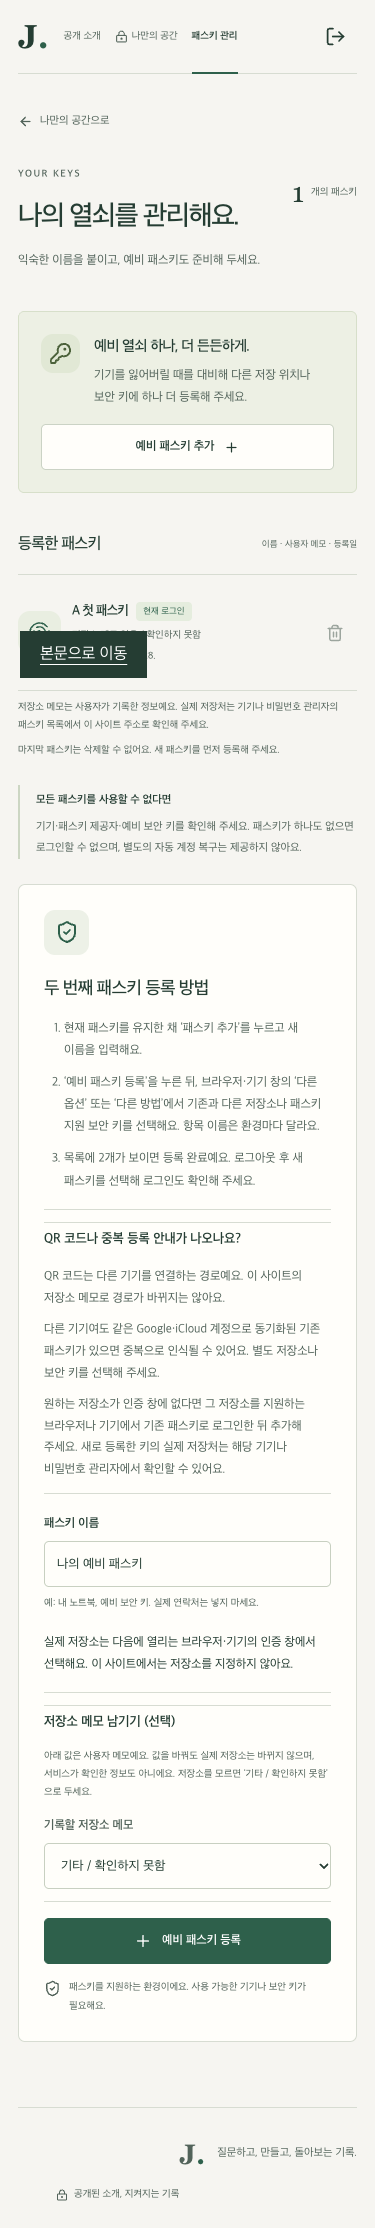
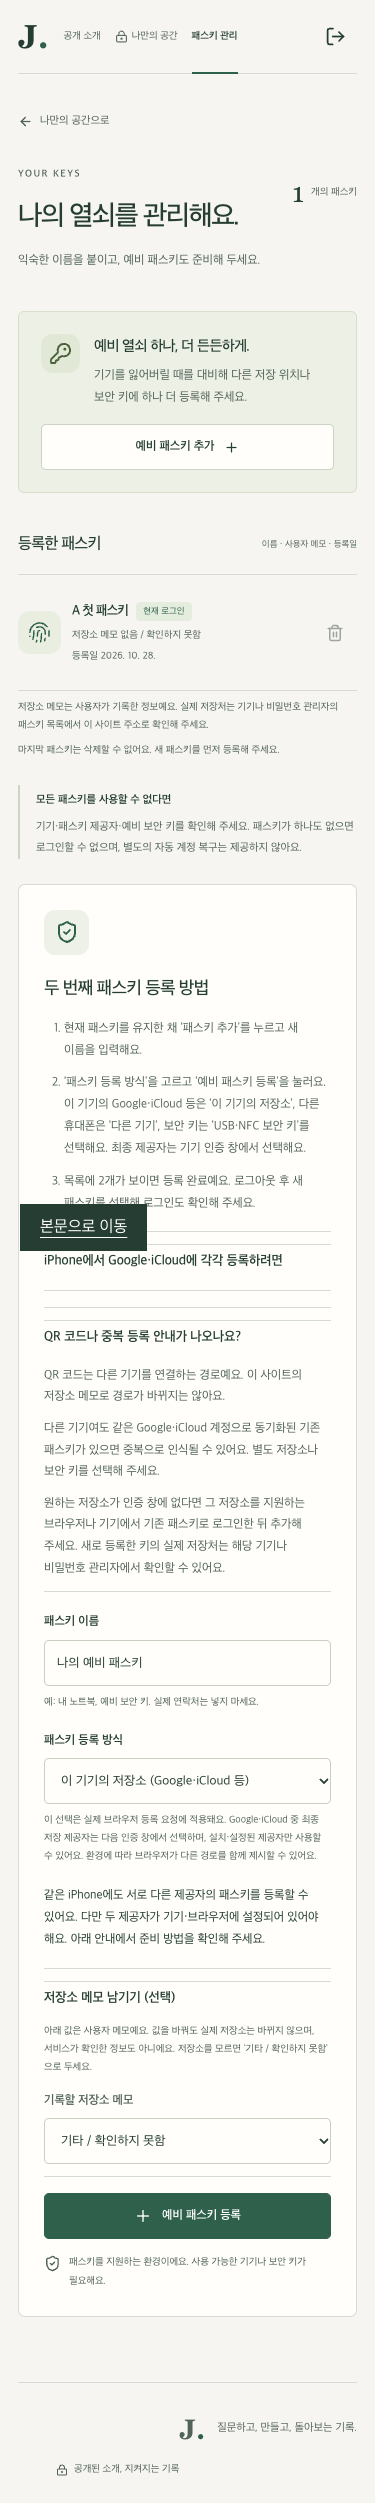
Add real WebAuthn registration routes and iPhone provider setup guidance

diff --git a/scripts/verify-deployment.ts b/scripts/verify-deployment.ts
@@ -22,6 +22,7 @@ let cleaned = true;
 let credentialProof: unknown;
 let counts: unknown;
 let storageMemoProof: unknown;
+let registrationMethodProof: unknown;
 const browser = await chromium.launch({ channel: process.env.PLAYWRIGHT_CHANNEL ?? 'chromium' });
 const contexts: BrowserContext[] = [];
 const sourceCommit = process.env.DEPLOYED_COMMIT ?? execFileSync('git', ['rev-parse', 'HEAD'], { encoding: 'utf8' }).trim();
@@ -36,9 +37,9 @@ async function addAuthenticator(context: BrowserContext, page: Page) {
   const { authenticatorId } = await cdp.send('WebAuthn.addVirtualAuthenticator', { options: { protocol: 'ctap2', transport: 'internal', hasResidentKey: true, hasUserVerification: true, isUserVerified: true, automaticPresenceSimulation: true } });
   return { cdp, id: authenticatorId as string };
 }
-async function replace(cdp: CDPSession, id: string, credential?: VirtualCredential) {
+async function replace(cdp: CDPSession, id: string, credential?: VirtualCredential, transport: 'internal' | 'usb' = 'internal') {
   await cdp.send('WebAuthn.removeVirtualAuthenticator', { authenticatorId: id });
-  const { authenticatorId } = await cdp.send('WebAuthn.addVirtualAuthenticator', { options: { protocol: 'ctap2', transport: 'internal', hasResidentKey: true, hasUserVerification: true, isUserVerified: true, automaticPresenceSimulation: true } });
+  const { authenticatorId } = await cdp.send('WebAuthn.addVirtualAuthenticator', { options: { protocol: 'ctap2', transport, hasResidentKey: true, hasUserVerification: true, isUserVerified: true, automaticPresenceSimulation: true } });
   if (credential) await cdp.send('WebAuthn.addCredential', { authenticatorId, credential });
   return authenticatorId as string;
 }
@@ -69,7 +70,7 @@ async function register(page: Page, name: string, initial: boolean) {
   const body = second.request as { response: { response: { clientDataJSON: string } } };
   const client = JSON.parse(Buffer.from(body.response.response.clientDataJSON, 'base64url').toString());
   expect(client.origin).toBe(target);
-  return { options: first.response as { options: { challenge: string; rp: { id: string } } }, verify: second };
+  return { options: first.response as { options: { challenge: string; rp: { id: string }; hints: string[]; authenticatorSelection: { authenticatorAttachment?: string; userVerification: string; residentKey: string } } }, verify: second };
 }
 async function signOut(page: Page, context: BrowserContext) {
   const old = (await context.cookies()).filter(cookie => cookie.name === '__Host-a08_session').map(cookie => `${cookie.name}=${cookie.value}`).join('; ');
@@ -128,6 +129,8 @@ try {
   stage = 'A registration and independent backup passkey';
   await setup(a, users[0], '가상 HTTPS 사용자 A');
   const first = await register(a, 'HTTPS A 첫 패스키', true);
+  expect(first.options.options.hints).toEqual(['client-device']);
+  expect(first.options.options.authenticatorSelection.authenticatorAttachment).toBe('platform');
   await expect(a).toHaveURL(target + '/vault', { timeout: 20000 });
   await expect(a.locator('.private-card')).toHaveCount(3);
   await a.goto(target);
@@ -138,6 +141,22 @@ try {
   await expect(a.locator('.private-card')).toHaveCount(3);
   let key1 = await credential(authA.cdp, aId);
   await a.getByRole('link', { name: '패스키 관리', exact: true }).click();
+  const methodProof = [];
+  for (const [method, attachment, hint] of [
+    ['device', 'platform', 'client-device'], ['phone', 'cross-platform', 'hybrid'],
+    ['security-key', 'cross-platform', 'security-key'], ['auto', undefined, undefined],
+  ] as const) {
+    const response = await aContext.request.post('/api/auth/registration/options', { data: { method }, headers: { Origin: target } });
+    expect(response.status()).toBe(200);
+    const result = await response.json();
+    expect(result.options.authenticatorSelection.authenticatorAttachment).toBe(attachment);
+    expect(result.options.hints).toEqual(hint ? [hint] : []);
+    expect(result.options.authenticatorSelection.userVerification).toBe('required');
+    expect(result.options.excludeCredentials).toHaveLength(1);
+    methodProof.push({ method, attachment: attachment ?? null, hints: result.options.hints, userVerification: 'required', excludedExistingKeys: 1 });
+    expect((await aContext.request.post('/api/auth/cancel', { data: { challengeId: result.challengeId }, headers: { Origin: target } })).status()).toBe(204);
+  }
+  registrationMethodProof = { options: methodProof, realVirtualAuthenticatorTransports: ['internal', 'usb'], actualGoogleOrIcloudProviderVerified: false };
   await expect(a.getByText('예비 열쇠 하나, 더 든든하게.')).toBeVisible();
   await a.getByRole('button', { name: '예비 패스키 추가', exact: false }).click();
   await expect(a.getByRole('heading', { name: '두 번째 패스키 등록 방법' })).toBeVisible();
@@ -150,7 +169,7 @@ try {
     await a.getByRole('button', { name: '예비 패스키 등록', exact: true }).click();
     const response = await optionsResponse;
     expect(response.status()).toBe(200);
-    expect(response.request().postDataJSON()).toEqual({});
+    expect(response.request().postDataJSON()).toEqual({ method: 'device' });
     await expect(a.getByRole('alert')).toContainText('저장소 메모를 바꿔도 실제 저장소는 바뀌지 않아요');
     expect((await store.credentials(users[0])).length).toBe(1);
     memoAttempts.push({ userMemo: memo, duplicateRejected: true, storedKeyCount: 1 });
@@ -161,8 +180,11 @@ try {
   await a.screenshot({ path: 'evidence/deployment/storage-memo-https.png', fullPage: true });
   await a.getByText('저장소 메모 남기기 (선택)', { exact: true }).click();
   storageMemoProof = { memoControlInitiallyCollapsed: true, memoAttempts, secondPasskeyStepsVisible: true, qrAndDuplicateHelpVisible: true };
-  aId = await replace(authA.cdp, aId);
+  aId = await replace(authA.cdp, aId, undefined, 'usb');
+  await a.getByLabel('패스키 등록 방식').selectOption('security-key');
   const second = await register(a, 'HTTPS A 예비 패스키', false);
+  expect(second.options.options.hints).toEqual(['security-key']);
+  expect(second.options.options.authenticatorSelection.authenticatorAttachment).toBe('cross-platform');
   const key2 = await credential(authA.cdp, aId);
   await expect(a.locator('.passkey-list li')).toHaveCount(2);
   expect(first.options.options.challenge).not.toBe(second.options.options.challenge);
@@ -256,7 +278,7 @@ try {
 }
 const proof = { executedAt: new Date().toISOString(), timezone: 'Asia/Seoul', origin: target, sourceCommit, deploymentId: process.env.DEPLOYMENT_ID ?? null,
   passed: success, syntheticAccountsRemoved: cleaned, environment: 'actual public HTTPS deployment and Neon PostgreSQL; Chromium CDP virtual authenticator; no mocked signature verification',
-  physicalDeviceVerified: false, stage, adminEntry: success ? { signedOutDestination: '/login?next=%2Fvault', afterLogin: '/vault', signedInDestination: '/vault', privateItemsShown: 3 } : null, storedPublicKeys: credentialProof, accountCounts: counts, storageMemo: storageMemoProof, cookiePolicy: success ? { secure: true, httpOnly: true, sameSite: 'Strict', prefix: '__Host-' } : null, records };
+  physicalDeviceVerified: false, stage, adminEntry: success ? { signedOutDestination: '/login?next=%2Fvault', afterLogin: '/vault', signedInDestination: '/vault', privateItemsShown: 3 } : null, storedPublicKeys: credentialProof, accountCounts: counts, storageMemo: storageMemoProof, registrationMethods: registrationMethodProof, cookiePolicy: success ? { secure: true, httpOnly: true, sameSite: 'Strict', prefix: '__Host-' } : null, records };
 const json = JSON.stringify(proof, null, 2);
 expect(json).not.toMatch(/"(?:privateKey|token|sessionHash|Cookie|Set-Cookie|Authorization)"\s*:/i);
 expect(json).not.toMatch(/#token=[A-Za-z0-9_-]{43}/);

diff --git a/src/client/passkeys/useCeremony.ts b/src/client/passkeys/useCeremony.ts
@@ -3,7 +3,7 @@ import {
   startAuthentication, startRegistration, WebAuthnAbortService,
   type PublicKeyCredentialCreationOptionsJSON, type PublicKeyCredentialRequestOptionsJSON,
 } from '@simplewebauthn/browser';
-import type { Provider } from '../../shared/contracts.js';
+import type { Provider, RegistrationMethod } from '../../shared/contracts.js';
 import { ApiError, post } from '../shared/api.js';
 
 type Phase = 'ready' | 'preparing' | 'device' | 'verifying' | 'success' | 'cancelled' | 'timeout' | 'error';
@@ -26,7 +26,7 @@ export function useCeremony() {
     if (active.current) { reason.current = 'cancelled'; abort.current?.abort(); WebAuthnAbortService.cancelCeremony(); }
   }, []);
   function update(next: Phase, text = messages[next]) { if (mounted.current) { setPhase(next); setMessage(text); } }
-  async function run(kind: 'registration' | 'authentication', fields: { name: string; provider: Provider } | null, onSuccess: () => Promise<void>) {
+  async function run(kind: 'registration' | 'authentication', fields: { name: string; provider: Provider; method: RegistrationMethod } | null, onSuccess: () => Promise<void>) {
     if (active.current) return;
     if (!window.isSecureContext || typeof window.PublicKeyCredential !== 'function') { update('error', '현재 환경에서는 패스키를 사용할 수 없어요. 아래 환경 안내를 확인해 주세요.'); return; }
     active.current = true; reason.current = null; abort.current = new AbortController();
@@ -35,7 +35,7 @@ export function useCeremony() {
     try {
       update('preparing');
       const result = await post<{ challengeId: string; options: PublicKeyCredentialCreationOptionsJSON | PublicKeyCredentialRequestOptionsJSON }>(
-        `/api/auth/${kind}/options`, {}, { signal: abort.current.signal },
+        `/api/auth/${kind}/options`, fields ? { method: fields.method } : {}, { signal: abort.current.signal },
       );
       challengeId = result.challengeId;
       if (!mounted.current || reason.current) throw new DOMException('Cancelled', 'AbortError');
@@ -47,7 +47,7 @@ export function useCeremony() {
       clearTimeout(timer);
       if (reason.current || !mounted.current) throw new DOMException('Cancelled', 'AbortError');
       update('verifying');
-      await post(`/api/auth/${kind}/verify`, { challengeId, response, ...fields }, { signal: abort.current.signal });
+      await post(`/api/auth/${kind}/verify`, { challengeId, response, ...(fields ? { name: fields.name, provider: fields.provider } : {}) }, { signal: abort.current.signal });
       challengeId = undefined;
       update('success');
       await onSuccess();
@@ -59,6 +59,7 @@ export function useCeremony() {
         update(name === 'NotAllowedError' || name === 'AbortError' ? 'cancelled' : 'error',
           name === 'InvalidStateError' ? '선택한 인증기에 이미 등록된 패스키가 있어요. 브라우저·기기 창의 ‘다른 옵션’에서 별도 저장소나 보안 키를 선택해 주세요. 저장소 메모를 바꿔도 실제 저장소는 바뀌지 않아요.'
           : name === 'NotAllowedError' ? '기기 확인이 취소되었거나 시간이 지났어요. 준비되면 다시 시도해 주세요.'
+          : name === 'ConstraintError' || name === 'NotSupportedError' ? '이 브라우저에서 선택한 등록 방식을 사용할 수 없어요. ‘브라우저에서 선택’을 시도하거나, 원하는 저장소가 설정된 Chrome·Safari에서 열어 주세요.'
           : name === 'SecurityError' ? '이 주소에서 패스키를 사용할 수 없어요. 원래 등록한 주소인지 확인해 주세요.'
           : messages[name === 'AbortError' ? 'cancelled' : 'error']);
       }
@@ -70,7 +71,7 @@ export function useCeremony() {
   }
   return {
     phase, message, busy: ['preparing', 'device', 'verifying'].includes(phase),
-    register: (fields: { name: string; provider: Provider }, success: () => Promise<void>) => run('registration', fields, success),
+    register: (fields: { name: string; provider: Provider; method: RegistrationMethod }, success: () => Promise<void>) => run('registration', fields, success),
     login: (success: () => Promise<void>) => run('authentication', null, success),
     cancel: () => { reason.current = 'cancelled'; abort.current?.abort(); WebAuthnAbortService.cancelCeremony(); },
   };

diff --git a/tests/e2e/passkeys.spec.ts b/tests/e2e/passkeys.spec.ts
@@ -20,10 +20,10 @@ async function authenticator(context: BrowserContext, page: Page, auto = true) {
   } });
   return { cdp, id: authenticatorId as string };
 }
-async function replaceAuthenticator(cdp: CDPSession, previous: string, credential?: VirtualCredential) {
+async function replaceAuthenticator(cdp: CDPSession, previous: string, credential?: VirtualCredential, transport: 'internal' | 'usb' = 'internal') {
   await cdp.send('WebAuthn.removeVirtualAuthenticator', { authenticatorId: previous });
   const { authenticatorId } = await cdp.send('WebAuthn.addVirtualAuthenticator', { options: {
-    protocol: 'ctap2', transport: 'internal', hasResidentKey: true, hasUserVerification: true,
+    protocol: 'ctap2', transport, hasResidentKey: true, hasUserVerification: true,
     isUserVerified: true, automaticPresenceSimulation: true,
   } });
   if (credential) await cdp.send('WebAuthn.addCredential', { authenticatorId, credential });
@@ -174,7 +174,7 @@ test('실제 WebAuthn 등록·로그인·격리·재사용 거절·패스키 폐
     await expect(a.getByText('예비 열쇠 하나, 더 든든하게.')).toBeVisible();
     await a.getByRole('button', { name: '예비 패스키 추가', exact: false }).click();
     await expect(a.getByRole('heading', { name: '두 번째 패스키 등록 방법' })).toBeVisible();
-    await expect(a.getByText('실제 저장소는 다음에 열리는 브라우저·기기의 인증 창에서 선택해요.', { exact: false })).toBeVisible();
+    await expect(a.getByLabel('패스키 등록 방식')).toHaveValue('device');
     await expect(a.getByLabel('기록할 저장소 메모')).toBeHidden();
     await a.getByText('저장소 메모 남기기 (선택)', { exact: true }).click();
     const duplicateAttempts: unknown[] = [];
@@ -188,7 +188,7 @@ test('실제 WebAuthn 등록·로그인·격리·재사용 거절·패스키 폐
       const options = (await response.json()).options;
       await expect(a.getByRole('alert')).toContainText('선택한 인증기에 이미 등록된 패스키가 있어요');
       await expect(a.getByRole('alert')).toContainText('저장소 메모를 바꿔도 실제 저장소는 바뀌지 않아요');
-      expect(response.request().postDataJSON()).toEqual({});
+      expect(response.request().postDataJSON()).toEqual({ method: 'device' });
       expect(options.authenticatorSelection).toEqual((first.options.response as any).options.authenticatorSelection);
       expect(withStore(store => store.credentials('test-account-a').length)).toBe(1);
       await expect(a.locator('.passkey-list li')).toHaveCount(1);
@@ -199,8 +199,11 @@ test('실제 WebAuthn 등록·로그인·격리·재사용 거절·패스키 폐
     await a.screenshot({ path: 'evidence/ux/storage-memo-desktop.png', fullPage: true });
     await a.getByLabel('기록할 저장소 메모').selectOption('기타 / 확인하지 못함');
     await a.getByText('저장소 메모 남기기 (선택)', { exact: true }).click();
-    authAId = await replaceAuthenticator(authA.cdp, authAId);
+    authAId = await replaceAuthenticator(authA.cdp, authAId, undefined, 'usb');
+    await a.getByLabel('패스키 등록 방식').selectOption('security-key');
     const second = await register(a, 'A 예비 패스키', false);
+    expect((second.options.response as any).options.hints).toEqual(['security-key']);
+    expect((second.options.response as any).options.authenticatorSelection.authenticatorAttachment).toBe('cross-platform');
     const secondCredential = await savedCredential(authA.cdp, authAId);
     await expect(a.locator('.passkey-list li')).toHaveCount(2);
     await expect(a.getByText('저장소 메모 없음 / 확인하지 못함', { exact: true })).toHaveCount(2);

diff --git a/src/client/passkeys/RegistrationForm.tsx b/src/client/passkeys/RegistrationForm.tsx
@@ -1,22 +1,32 @@
 import { useState, type FormEvent } from 'react';
 import { Fingerprint, LoaderCircle, Plus } from 'lucide-react';
-import { providers, type Provider } from '../../shared/contracts.js';
+import { providers, type Provider, type RegistrationMethod } from '../../shared/contracts.js';
 import { EnvironmentNotice, Status } from '../shared/components.js';
 import { useCeremony } from './useCeremony.js';
 
 export function RegistrationForm({ initial = false, onSuccess }: { initial?: boolean; onSuccess: () => Promise<void> }) {
   const [name, setName] = useState(initial ? '나의 첫 패스키' : '나의 예비 패스키');
   const [provider, setProvider] = useState<Provider>('기타 / 확인하지 못함');
+  const [method, setMethod] = useState<RegistrationMethod>('device');
   const ceremony = useCeremony();
   const submit = (event: FormEvent) => {
     event.preventDefault();
-    void ceremony.register({ name: name.trim(), provider }, onSuccess);
+    void ceremony.register({ name: name.trim(), provider, method }, onSuccess);
   };
   return <form className="registration-form" onSubmit={submit} aria-busy={ceremony.busy}>
     <div className="field"><label htmlFor="passkey-name">패스키 이름</label>
       <input id="passkey-name" name="passkey-name" value={name} onChange={event => setName(event.target.value)} required minLength={1} maxLength={40} disabled={ceremony.busy} autoComplete="off" aria-describedby="passkey-name-help" />
       <p id="passkey-name-help" className="field-help">예: 내 노트북, 예비 보안 키. 실제 연락처는 넣지 마세요.</p></div>
-    <p className="registration-storage-guide">실제 저장소는 다음에 열리는 브라우저·기기의 인증 창에서 선택해요. 이 사이트에서는 저장소를 지정하지 않아요.</p>
+    <div className="field"><label htmlFor="registration-method">패스키 등록 방식</label>
+      <select id="registration-method" value={method} onChange={event => setMethod(event.target.value as RegistrationMethod)} disabled={ceremony.busy} aria-describedby="registration-method-help">
+        <option value="device">이 기기의 저장소 (Google·iCloud 등)</option>
+        <option value="phone">다른 기기에서 등록 (QR)</option>
+        <option value="security-key">USB·NFC 보안 키</option>
+        <option value="auto">브라우저에서 선택</option>
+      </select>
+      <p id="registration-method-help" className="field-help">이 선택은 실제 브라우저 등록 요청에 적용돼요. Google·iCloud 중 최종 저장 제공자는 다음 인증 창에서 선택하며, 설치·설정된 제공자만 사용할 수 있어요. 환경에 따라 브라우저가 다른 경로를 함께 제시할 수 있어요.</p>
+    </div>
+    <p className="registration-storage-guide">같은 iPhone에도 서로 다른 제공자의 패스키를 등록할 수 있어요. 다만 두 제공자가 기기·브라우저에 설정되어 있어야 해요. 아래 안내에서 준비 방법을 확인해 주세요.</p>
     <details className="storage-memo">
       <summary>저장소 메모 남기기 (선택)</summary>
       <p id="provider-help" className="field-help">아래 값은 사용자 메모예요. 값을 바꿔도 실제 저장소는 바뀌지 않으며, 서비스가 확인한 정보도 아니에요. 저장소를 모르면 ‘기타 / 확인하지 못함’으로 두세요.</p>

diff --git a/src/client/passkeys/PasskeysPage.tsx b/src/client/passkeys/PasskeysPage.tsx
@@ -59,9 +59,16 @@ function PasskeysContent() {
     </div><aside className="add-key-card"><div className="auth-icon"><ShieldCheck size={24} aria-hidden="true" /></div><h2>두 번째 패스키 등록 방법</h2>
       <ol className="backup-steps">
         <li>현재 패스키를 유지한 채 ‘패스키 추가’를 누르고 새 이름을 입력해요.</li>
-        <li>‘예비 패스키 등록’을 누른 뒤, 브라우저·기기 창의 ‘다른 옵션’ 또는 ‘다른 방법’에서 기존과 다른 저장소나 패스키 지원 보안 키를 선택해요. 항목 이름은 환경마다 달라요.</li>
+        <li>‘패스키 등록 방식’을 고르고 ‘예비 패스키 등록’을 눌러요. 이 기기의 Google·iCloud 등은 ‘이 기기의 저장소’, 다른 휴대폰은 ‘다른 기기’, 보안 키는 ‘USB·NFC 보안 키’를 선택해요. 최종 제공자는 기기 인증 창에서 선택해요.</li>
         <li>목록에 2개가 보이면 등록 완료예요. 로그아웃 후 새 패스키를 선택해 로그인도 확인해 주세요.</li>
       </ol>
+      <details className="backup-help provider-setup"><summary>iPhone에서 Google·iCloud에 각각 등록하려면</summary>
+        <p>iPhone에 첫 패스키가 있다면, 기존 키는 유지한 채 다른 제공자에 두 번째 키를 새로 만들어요. 사이트는 기기마다 키를 하나로 제한하지 않아요.</p>
+        <p>iOS 17 이상에서 Chrome에 Google 계정으로 로그인하고, iPhone 설정의 자동완성 제공자에 Chrome을 활성화해 Google 비밀번호 관리자를 준비해 주세요. 설정 이름은 iOS 버전에 따라 달라요.</p>
+        <p>그다음 해당 iPhone의 Chrome에서 이 사이트를 열고 기존 키로 로그인해요. 추가 등록에서 ‘이 기기의 저장소’를 선택하고, 인증 창에서 첫 키와 다른 제공자를 선택해 주세요. iCloud·암호 앱과 Google에 각각 새 키가 있어야 독립된 예비 키예요.</p>
+        <p>제공자가 보이지 않으면 기기의 자동완성 설정·지원 브라우저를 확인하세요. Mac의 Chrome에서도 지원 환경이라면 Google·iCloud 중 저장소를 선택할 수 있어요. 사이트가 특정 회사의 저장소를 강제로 열거나 설정을 대신 바꾸지는 못해요.</p>
+        <a href="https://developers.google.com/identity/passkeys/supported-environments" target="_blank" rel="noreferrer">Google 공식 지원 환경 안내</a>
+      </details>
       <details className="backup-help"><summary>QR 코드나 중복 등록 안내가 나오나요?</summary>
         <p>QR 코드는 다른 기기를 연결하는 경로예요. 이 사이트의 저장소 메모로 경로가 바뀌지는 않아요.</p>
         <p>다른 기기여도 같은 Google·iCloud 계정으로 동기화된 기존 패스키가 있으면 중복으로 인식될 수 있어요. 별도 저장소나 보안 키를 선택해 주세요.</p>

diff --git a/src/server/auth/webauthn.ts b/src/server/auth/webauthn.ts
@@ -6,13 +6,13 @@ import {
 import type { Config } from '../config/env.js';
 import type { Session, Enrollment, Credential } from '../storage/store.js';
 import type { DataStore } from '../storage/contracts.js';
-import type { Provider } from '../../shared/contracts.js';
+import type { Provider, RegistrationMethod } from '../../shared/contracts.js';
 import { invalidCeremony, unauthorized } from './errors.js';
 
 export class WebAuthnService {
   constructor(private store: DataStore, private config: Config) {}
 
-  async registrationOptions(flowHash: string, session: Session | null, enrollment: Enrollment | null) {
+  async registrationOptions(flowHash: string, session: Session | null, enrollment: Enrollment | null, method: RegistrationMethod = 'auto') {
     if (!session && !enrollment) throw unauthorized();
     const user = session?.user ?? { id: enrollment!.userId, displayName: enrollment!.displayName, handle: enrollment!.handle };
     const options = await generateRegistrationOptions({
@@ -20,6 +20,7 @@ export class WebAuthnService {
       userID: new Uint8Array(Buffer.from(user.handle, 'base64url')), userName: user.displayName, userDisplayName: user.displayName,
       attestationType: 'none', timeout: 60_000,
       authenticatorSelection: { residentKey: 'required', userVerification: 'required' },
+      preferredAuthenticatorType: ({ device: 'localDevice', phone: 'remoteDevice', 'security-key': 'securityKey', auto: undefined } as const)[method],
       supportedAlgorithmIDs: [-7, -257],
       excludeCredentials: (await this.store.credentials(user.id)).map(credential => ({ id: credential.id, transports: credential.transports })),
     });

diff --git a/tests/integration/api.test.ts b/tests/integration/api.test.ts
@@ -41,6 +41,20 @@ test('HTTP 경계: 미인증·양방향 타 계정·변조·로그아웃·CSRF·
     const optionsB = await (await send('/api/auth/authentication/options', '', 'POST', {})).json();
     assert.notEqual(optionsA.options.challenge, optionsB.options.challenge);
     assert.equal((await send('/api/auth/registration/options', '', 'POST', {})).status, 401);
+    for (const [method, attachment, hint] of [
+      ['device', 'platform', 'client-device'], ['phone', 'cross-platform', 'hybrid'],
+      ['security-key', 'cross-platform', 'security-key'], ['auto', undefined, undefined],
+    ] as const) {
+      const result = await send('/api/auth/registration/options', cookieA, 'POST', { method });
+      assert.equal(result.status, 200);
+      const { options } = await result.json();
+      assert.equal(options.authenticatorSelection.authenticatorAttachment, attachment);
+      assert.deepEqual(options.hints, hint ? [hint] : []);
+      assert.equal(options.authenticatorSelection.userVerification, 'required');
+      assert.equal(options.authenticatorSelection.residentKey, 'required');
+      assert.equal(options.excludeCredentials[0].id, a.credential.id);
+    }
+    assert.equal((await send('/api/auth/registration/options', cookieA, 'POST', { method: 'icloud' })).status, 400);
     const setup = store.issueBootstrap('cancelled', '가상 취소');
     const exchanged = await send('/api/setup/exchange', '', 'POST', { token: setup });
     const enrollmentCookie = exchanged.headers.getSetCookie()[0].split(';')[0];

diff --git a/src/server/app.ts b/src/server/app.ts
@@ -10,7 +10,7 @@ import { WebAuthnService } from './auth/webauthn.js';
 import { AppError } from './auth/errors.js';
 import { hashToken, randomToken } from './auth/tokens.js';
 import { requireSession } from './authorization/access.js';
-import { providers } from '../shared/contracts.js';
+import { providers, registrationMethods } from '../shared/contracts.js';
 import { getPrivateItem, listPrivateItems } from './private-data/service.js';
 
 const idSchema = z.string().uuid();
@@ -106,7 +106,8 @@ export function createApp(config: Config, store: DataStore) {
   });
 
   app.post('/api/auth/registration/options', async (req, res) => {
-    res.json(await auth.registrationOptions(flow(req, res), await session(req), await enrollment(req)));
+    const input = z.object({ method: z.enum(registrationMethods).default('auto') }).strict().parse(req.body);
+    res.json(await auth.registrationOptions(flow(req, res), await session(req), await enrollment(req), input.method));
   });
   app.post('/api/auth/registration/verify', async (req, res) => {
     const input = z.object({

diff --git a/src/shared/contracts.ts b/src/shared/contracts.ts
@@ -3,6 +3,8 @@ export interface SessionSummary { user: UserSummary | null; expiresAt?: number }
 export interface PrivateItem { id: string; title: string; body: string; category: string }
 export const providers = ['기기 자체', 'Google 비밀번호 관리자', 'iCloud 키체인', '보안 키', '기타 / 확인하지 못함'] as const;
 export type Provider = typeof providers[number];
+export const registrationMethods = ['device', 'phone', 'security-key', 'auto'] as const;
+export type RegistrationMethod = typeof registrationMethods[number];
 export interface PasskeySummary {
   id: string;
   name: string;

diff --git a/docs/authentication-report.md b/docs/authentication-report.md
@@ -18,7 +18,25 @@ pQECAyYgASFYIFF3329w+1Y38GDNChpLBypNSQwudPoT2g5F6NbrPSmFIlggmQv36Xlc68g0vundKHy1
 
 이 Base64 값은 **서명 확인에 쓰는 공개키를 인코딩한 값이며 비밀번호가 아닙니다.** 개인키와 지문·얼굴 정보는 서비스 서버에 전송·저장하지 않습니다. 등록 요청 본문의 전체 구조는 [운영 JSON](../evidence/deployment/https-verification.json)의 `records[2].request`, 저장 값은 `storedPublicKeys`에서 확인합니다. 개인키가 없다는 검사도 수행합니다.
 
-자동 검증의 저장 위치는 **A 계정의 독립된 Chrome CDP 소프트웨어 인증기 2개와 B 계정의 별도 인증기 1개**입니다. 검증 종료 시 브라우저와 테스트 계정을 정리했습니다. 사용자의 실제 저장 제공자는 서비스가 확인할 수 없으며, 현재 문서에서는 미확인입니다(C26). ‘저장소 메모’는 사용자가 적는 기록이고 실제 저장소 선택 설정이나 제공자 증명이 아닙니다.
+자동 검증의 저장 위치는 **A 계정의 독립된 Chrome CDP 소프트웨어 인증기 2개와 B 계정의 별도 인증기 1개**입니다. 검증 종료 시 브라우저와 테스트 계정을 정리했습니다. 사용자는 첫 키를 ‘iPhone 자체’에 저장했다고 보고했습니다. 실제 저장 제공자가 iCloud·Google 중 무엇인지는 서비스가 확인할 수 없으며 미확인입니다(C26). ‘저장소 메모’는 사용자가 적는 기록이고 실제 저장소 선택 설정이나 제공자 증명이 아닙니다.
+
+
+### 실제 등록 방식 선택
+
+‘패스키 등록 방식’은 저장소 메모와 다릅니다. 선택값은 서버가 발급하는 실제 WebAuthn 옵션에 적용됩니다.
+
+| 방식 | 브라우저 요청 |
+| --- | --- |
+| 이 기기의 저장소 | platform + client-device |
+| 다른 기기(QR) | cross-platform + hybrid |
+| USB·NFC 보안 키 | cross-platform + security-key |
+| 브라우저에서 선택 | 제공자/기기 선택을 브라우저 기본 동작에 맡김 |
+
+Google·iCloud 같은 회사별 저장소를 지정하는 WebAuthn API는 없습니다. 최종 제공자는 지원 브라우저·OS의 인증 창에서 사용자가 선택하며, hints는 경로를 제안하는 값입니다. 기존 키 제외·사용자 확인(UV)·실제 서명 검증은 유지합니다.
+
+사용자는 첫 키를 ‘iPhone 자체’에 저장했다고 알려주었습니다. 실제 제공자가 iCloud인지 다른 관리자인지 확인된 것은 아닙니다. iPhone에서 Google에 별도 키를 추가하려면 iOS 17 이상과 Chrome의 Google 계정/자동완성 제공자 설정을 준비하고, 그 브라우저에서 기존 키로 로그인한 뒤 ‘이 기기의 저장소’로 추가합니다. 인증 창에 Google 제공자가 보이는지와 최종 저장된 사이트 항목을 직접 확인해야 합니다. 기존 키는 삭제하지 않습니다.
+
+근거: [Google의 iOS·macOS 지원 환경](https://developers.google.com/identity/passkeys/supported-environments), [WebAuthn hints](https://www.w3.org/TR/webauthn-3/#enum-hints), [SimpleWebAuthn 등록 옵션](https://simplewebauthn.dev/docs/packages/server).
 
 ## ② 왜 그걸 골랐나
 

diff --git a/README.md b/README.md
@@ -49,6 +49,24 @@ QR은 다른 기기를 연결하는 경로입니다. 다른 기기라도 같은 
 
 ‘저장소 메모 남기기’는 선택적인 사용자 기록입니다. 값을 바꿔도 실제 저장소가 바뀌지 않으며, 서비스가 제공자를 확인했다는 뜻도 아닙니다. 실제 저장처는 기기나 비밀번호 관리자의 패스키 목록에서 사이트 주소로 확인합니다. 자동 검증의 저장 위치는 Chrome CDP 소프트웨어 인증기이며 실제 소유자의 제공자 확인과 별개입니다.
 
+
+## 실제 등록 방식 선택
+
+‘패스키 등록 방식’은 저장소 메모와 다릅니다. 선택값은 서버가 발급하는 실제 WebAuthn 옵션에 적용됩니다.
+
+| 방식 | 브라우저 요청 |
+| --- | --- |
+| 이 기기의 저장소 | platform + client-device |
+| 다른 기기(QR) | cross-platform + hybrid |
+| USB·NFC 보안 키 | cross-platform + security-key |
+| 브라우저에서 선택 | 제공자/기기 선택을 브라우저 기본 동작에 맡김 |
+
+Google·iCloud 같은 회사별 저장소를 지정하는 WebAuthn API는 없습니다. 최종 제공자는 지원 브라우저·OS의 인증 창에서 사용자가 선택하며, hints는 경로를 제안하는 값입니다. 기존 키 제외·사용자 확인(UV)·실제 서명 검증은 유지합니다.
+
+사용자는 첫 키를 ‘iPhone 자체’에 저장했다고 알려주었습니다. 실제 제공자가 iCloud인지 다른 관리자인지 확인된 것은 아닙니다. iPhone에서 Google에 별도 키를 추가하려면 iOS 17 이상과 Chrome의 Google 계정/자동완성 제공자 설정을 준비하고, 그 브라우저에서 기존 키로 로그인한 뒤 ‘이 기기의 저장소’로 추가합니다. 인증 창에 Google 제공자가 보이는지와 최종 저장된 사이트 항목을 직접 확인해야 합니다. 기존 키는 삭제하지 않습니다.
+
+근거: [Google의 iOS·macOS 지원 환경](https://developers.google.com/identity/passkeys/supported-environments), [WebAuthn hints](https://www.w3.org/TR/webauthn-3/#enum-hints), [SimpleWebAuthn 등록 옵션](https://simplewebauthn.dev/docs/packages/server).
+
 ## 기술 스택과 운영
 
 React · TypeScript · Vite · Express · SimpleWebAuthn · Node.js 24 · 로컬 SQLite / 운영 Neon PostgreSQL · Vercel(sin1) · Playwright · axe-core.

diff --git a/docs/ux.md b/docs/ux.md
@@ -73,3 +73,5 @@
 저장소 메모 회귀 증거: [자동 결과](../evidence/ux/verified-storage-memo.json), [데스크톱](../evidence/ux/storage-memo-desktop.png), [모바일](../evidence/ux/storage-memo-mobile.png). 실제 제공자 저장 위치를 검증한 결과가 아닙니다.
 
 최종 운영 재점검: [U1–U6 JSON](../evidence/deployment/ux-verification.json). U1의 미지원 플래그와 U2의 시간 초과 시계는 의도적으로 제어했으며, 실제 장치 고장·생체 인증 검증은 아닙니다. 취소·시간 제어와 일반 등록·접근성 검사는 독립 컨텍스트로 분리했습니다.
+
+후속 보강: 등록 방식 선택은 서버 options의 platform/cross-platform 및 client-device/hybrid/security-key에 실제 반영됩니다. 저장소 메모와 구분하며, iPhone의 Chrome/Google 자동완성 준비 및 회사별 제공자 선택의 지원 조건을 안내합니다.
